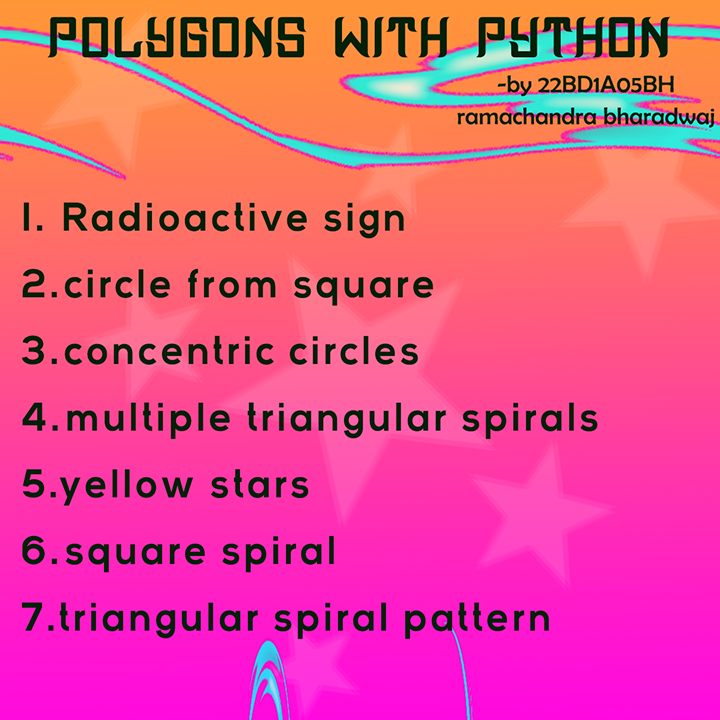
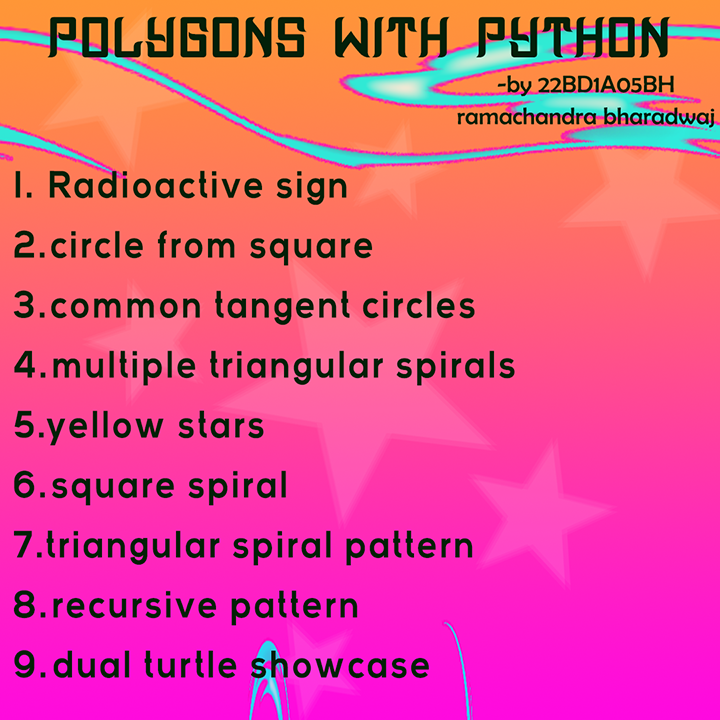
Add files via upload

diff --git a/main copy.py b/main copy.py
@@ -2,10 +2,7 @@ from subprocess import call
 import tkinter
 import os
 
-
-#hello ! please change the directory before 
 os.chdir(r"E:\\Coding guide\\my python\\turtle files")
-
 def cretwin():
     errpop=tkinter.Toplevel(rama)
     errpop.title("waitt!!")
@@ -38,13 +35,16 @@ def accept():
             call(["python3","shuriken jutsu.py"])
         case "9":
             call(["python3","dual turt.py"])
-        case "trinetra": #buzzword easter egg to close the program
+        case "trinetra keshava":
             quit()
         case _:
             cretwin()
             print("hello bro !! mistake commited !")
 
 rama=tkinter.Tk()
+frame=tkinter.Frame(rama)
+frame.pack()
+
 rama.geometry("720x720")
 rama.title("Main menu - polygons")
 rama.config(background="black")
@@ -52,17 +52,17 @@ rama.config(background="black")
 
 thumbnail=tkinter.PhotoImage(file="dixie.png")
 mm=tkinter.PhotoImage(file="gui menu0000.png") #720 x 720 width height
-rama.iconphoto(True,thumbnail)
+frame.iconphoto(True,thumbnail)
 label=tkinter.Label(image=mm, relief="raised")
 label.pack()
 
 
 
-inpu=tkinter.Entry(rama,font=("Comic sans",22),width=41)
+inpu=tkinter.Entry(frame,font=("Comic sans",22),width=41)
 inpu.place(x=290,y=710)
 
 
-enterbutton=tkinter.Button(rama,text="let's go!",font=("Arial",12),command=accept,compound="bottom",padx=5,pady=5)
+enterbutton=tkinter.Button(frame,text="let's go!",font=("Arial",12),command=accept,compound="bottom",padx=5,pady=5)
 enterbutton.place(x=938,y=710)
 
 

diff --git a/triangular color spiral.py b/triangular color spiral.py
@@ -4,16 +4,22 @@ rama=turtle.Turtle()
 turtle.bgcolor("black")
 rama.color("blue")
 turtle.speed(10)
-colorsu=["red","yellow","green","purple","blue","pink","orange","light green"]
-
+colorsu=["red","yellow","green","purple","blue","pink","orange","light green","red","#07faf6","#62f202","#f26602","#f20296"]
+c=0
+rama.speed(0)
 for i in range(600):
     rama.fd(i*5)
     rama.lt(119)
-    try:
-        x=i%10
-        rama.pencolor(colorsu[x])
-    except:
-        rama.pencolor("indigo")
+    if(i%20==0 and c!=12):
+        c+=1
+        rama.pencolor(colorsu[c])
+    if(c>11):
+        c=0
+    #try:
+        #x=i%10
+        #rama.pencolor(colorsu[x])
+    #except:
+        #rama.pencolor("indigo")
 
 
 turtle.done()

diff --git a/dual turt.py b/dual turt.py
@@ -1,0 +1,43 @@
+import turtle
+rama=turtle.Turtle()
+bharadwaj=turtle.Turtle()
+turtle.bgcolor("black")
+rama.pencolor("red")
+bharadwaj.pencolor("magenta")
+
+def symetro(x,c,d):
+    x.hideturtle()
+    x.begin_fill()
+    x.color(d)
+
+    for i in range(0,10):
+        if(c%2==0):
+            x.fd(100)
+            x.rt(20)
+        else:
+            x.back(100)
+            x.lt(20)
+
+    x.end_fill()
+
+rama.penup()
+rama.goto(0,250)
+bharadwaj.penup()
+bharadwaj.goto(0,250)
+rama.pendown()
+bharadwaj.pendown()
+symetro(rama,1,"red")
+symetro(bharadwaj,2,"yellow")
+
+
+
+
+
+
+
+
+
+
+
+
+turtle.done()

diff --git a/shuriken jutsu.py b/shuriken jutsu.py
@@ -1,0 +1,23 @@
+import turtle
+
+rama=turtle.Turtle()
+turtle.bgcolor("black")
+rama.pencolor("red")
+rama.speed(0)
+#turtle.screensize(canvwidth=2000,canvheight=2000)
+def hysteria(steps,move):
+    if(steps==0):
+        return
+    rama.fd(steps)
+    rama.rt(90)
+    rama.rt(2)
+    hysteria(steps-4,move/2)
+    
+rama.penup()
+rama.goto(-100,250)
+rama.pendown()
+
+hysteria(600,360)
+
+
+turtle.done()
